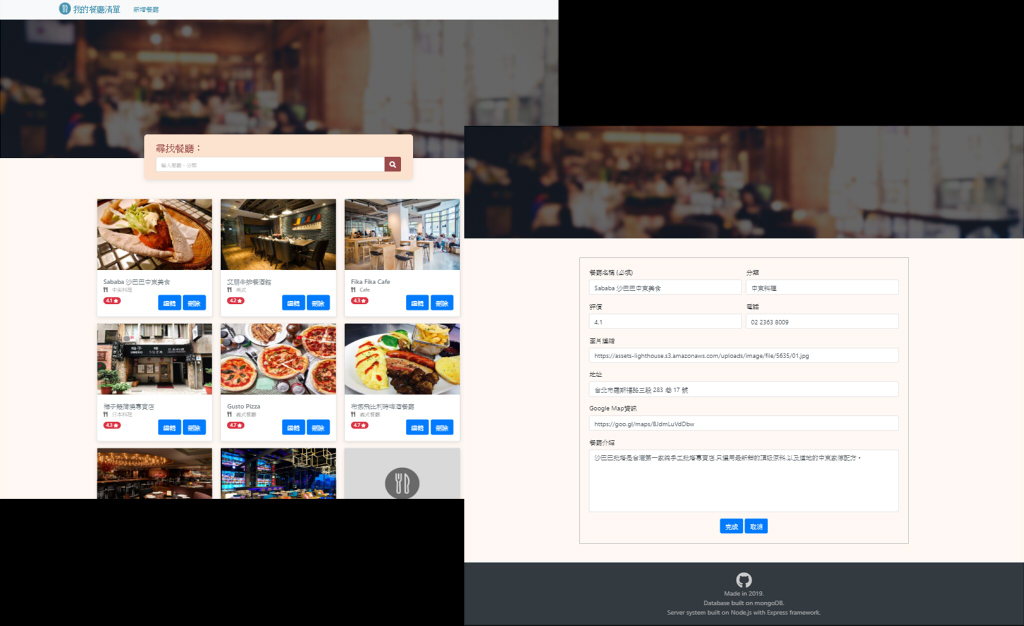
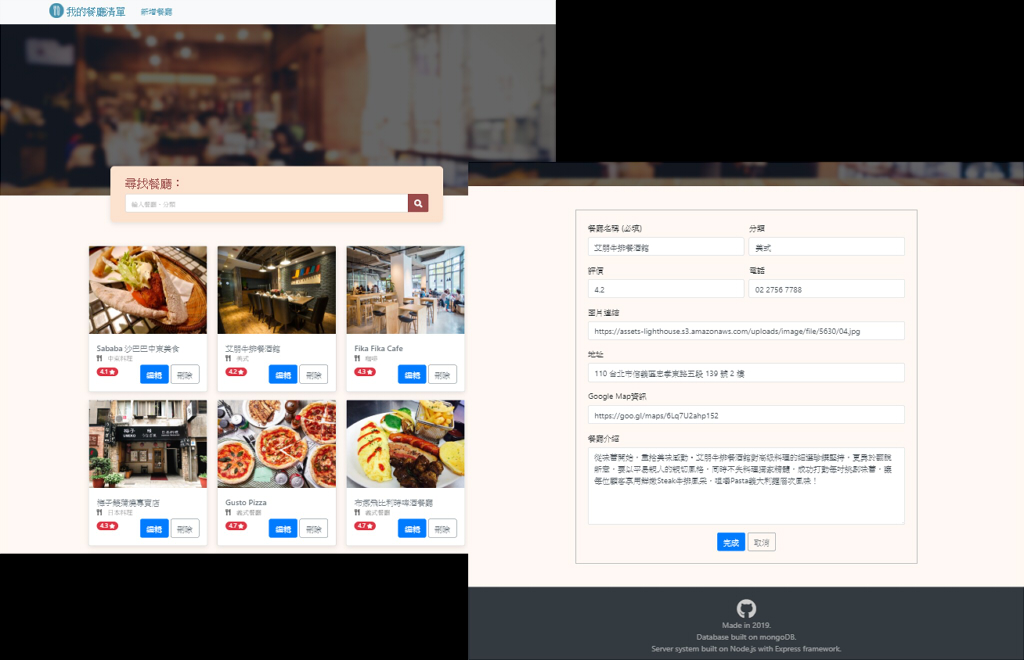
加入 刪除警告, 優化 btn UI, 更新版本號 v2.0

diff --git a/app.js b/app.js
@@ -41,7 +41,9 @@ app.get('/', (req, res) => {
 app.get('/index', (req, res) => {
   Restaurant.find( (err, restaurants) => {
     if (err) return console.error(err)
-    res.render('index', { css: 'index', js: 'catchError', restaurants })
+
+    const js = { delBtn: "delBtn", catch: 'catchError' }
+    res.render('index', { css: 'index', js, restaurants })
   })
 })
 
@@ -59,7 +61,9 @@ app.get('/restaurants/:id/edit', (req, res) => {
 app.get('/restaurants/:id', (req, res) => {
   Restaurant.findById(req.params.id, (err, restaurant) => {
     if (err) return console.error(err)
-    res.render('show', { css: 'show', js: 'catchError', restaurant })
+
+    const js = { delBtn: "delBtn", catch: 'catchError' }
+    res.render('show', { css: 'show', js, restaurant })
   }) 
 })
 
@@ -85,7 +89,9 @@ app.get('/search', (req, res) => {
     const restaurants = collection.filter(
       item => item.name.match(regexp) || item.category.match(regexp)
     )
-    res.render('index', { css: 'index', js: 'catchError', restaurants, keyword })
+
+    const js = { delBtn: "delBtn", catch: 'catchError' }
+    res.render('index', { css: 'index', js, restaurants, keyword })
   })
 })
 

diff --git a/public/js/delBtn.js b/public/js/delBtn.js
@@ -1,0 +1,6 @@
+// 點擊刪除按鈕後，將 id 傳給 Modal 的表單
+$('.del').on('click', e => {
+  const id = e.target.dataset.id
+  
+  $('#del-form').attr('action', `/restaurants/${id}/delete`)
+})
